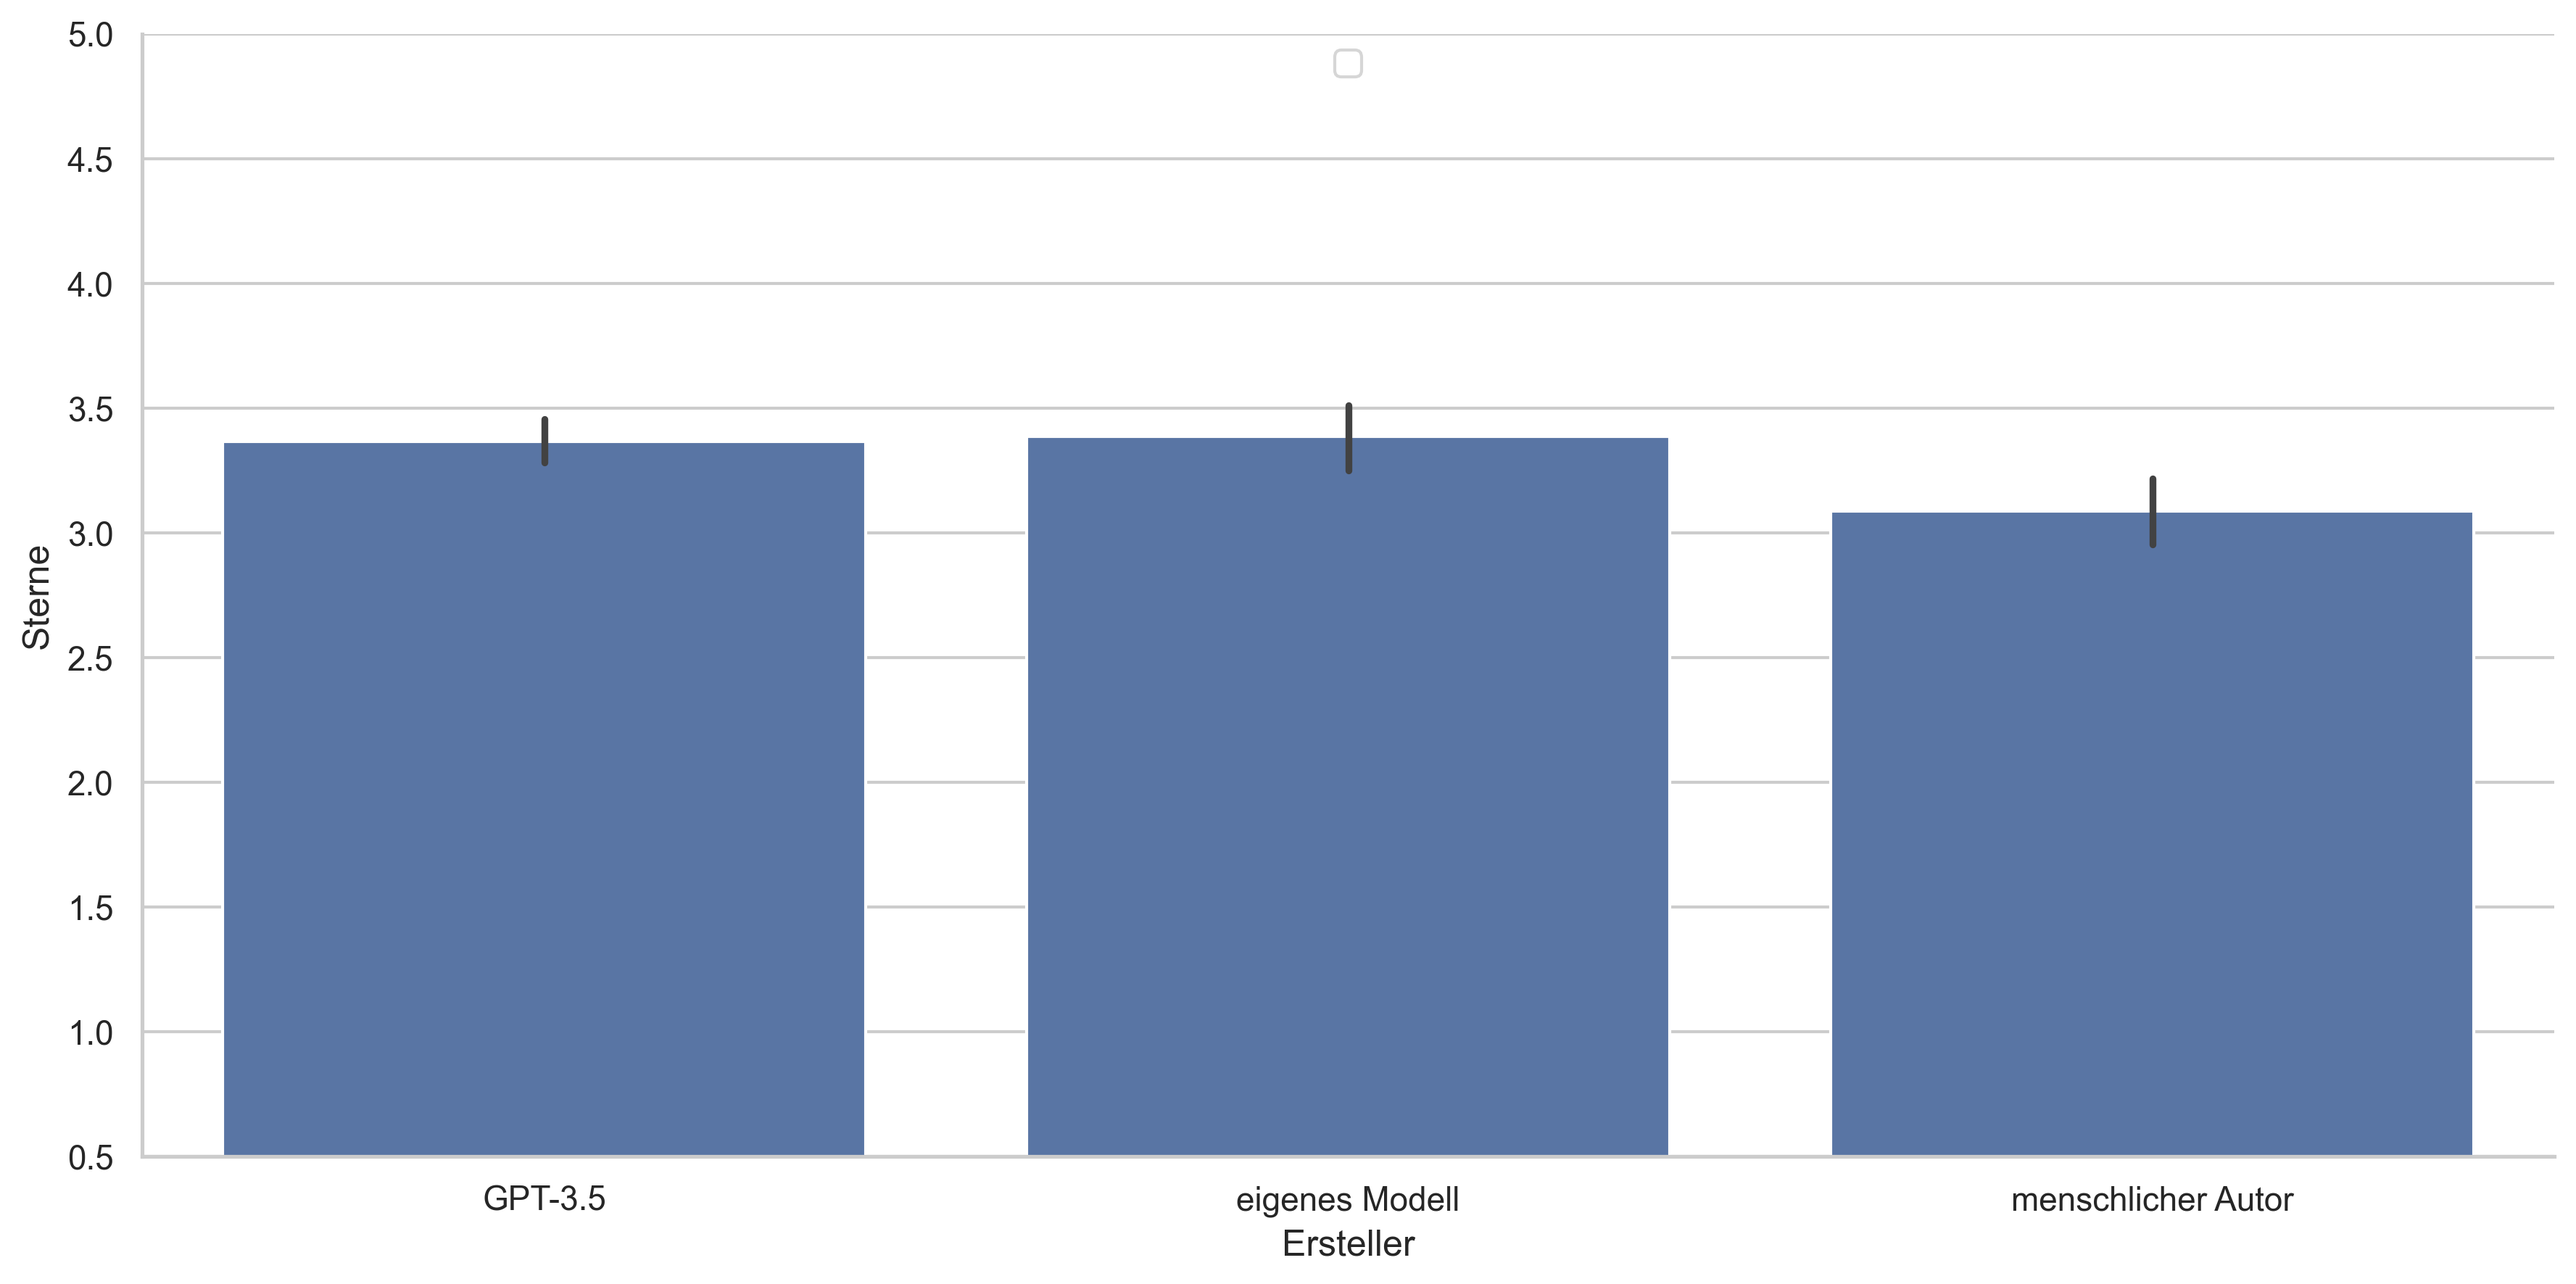
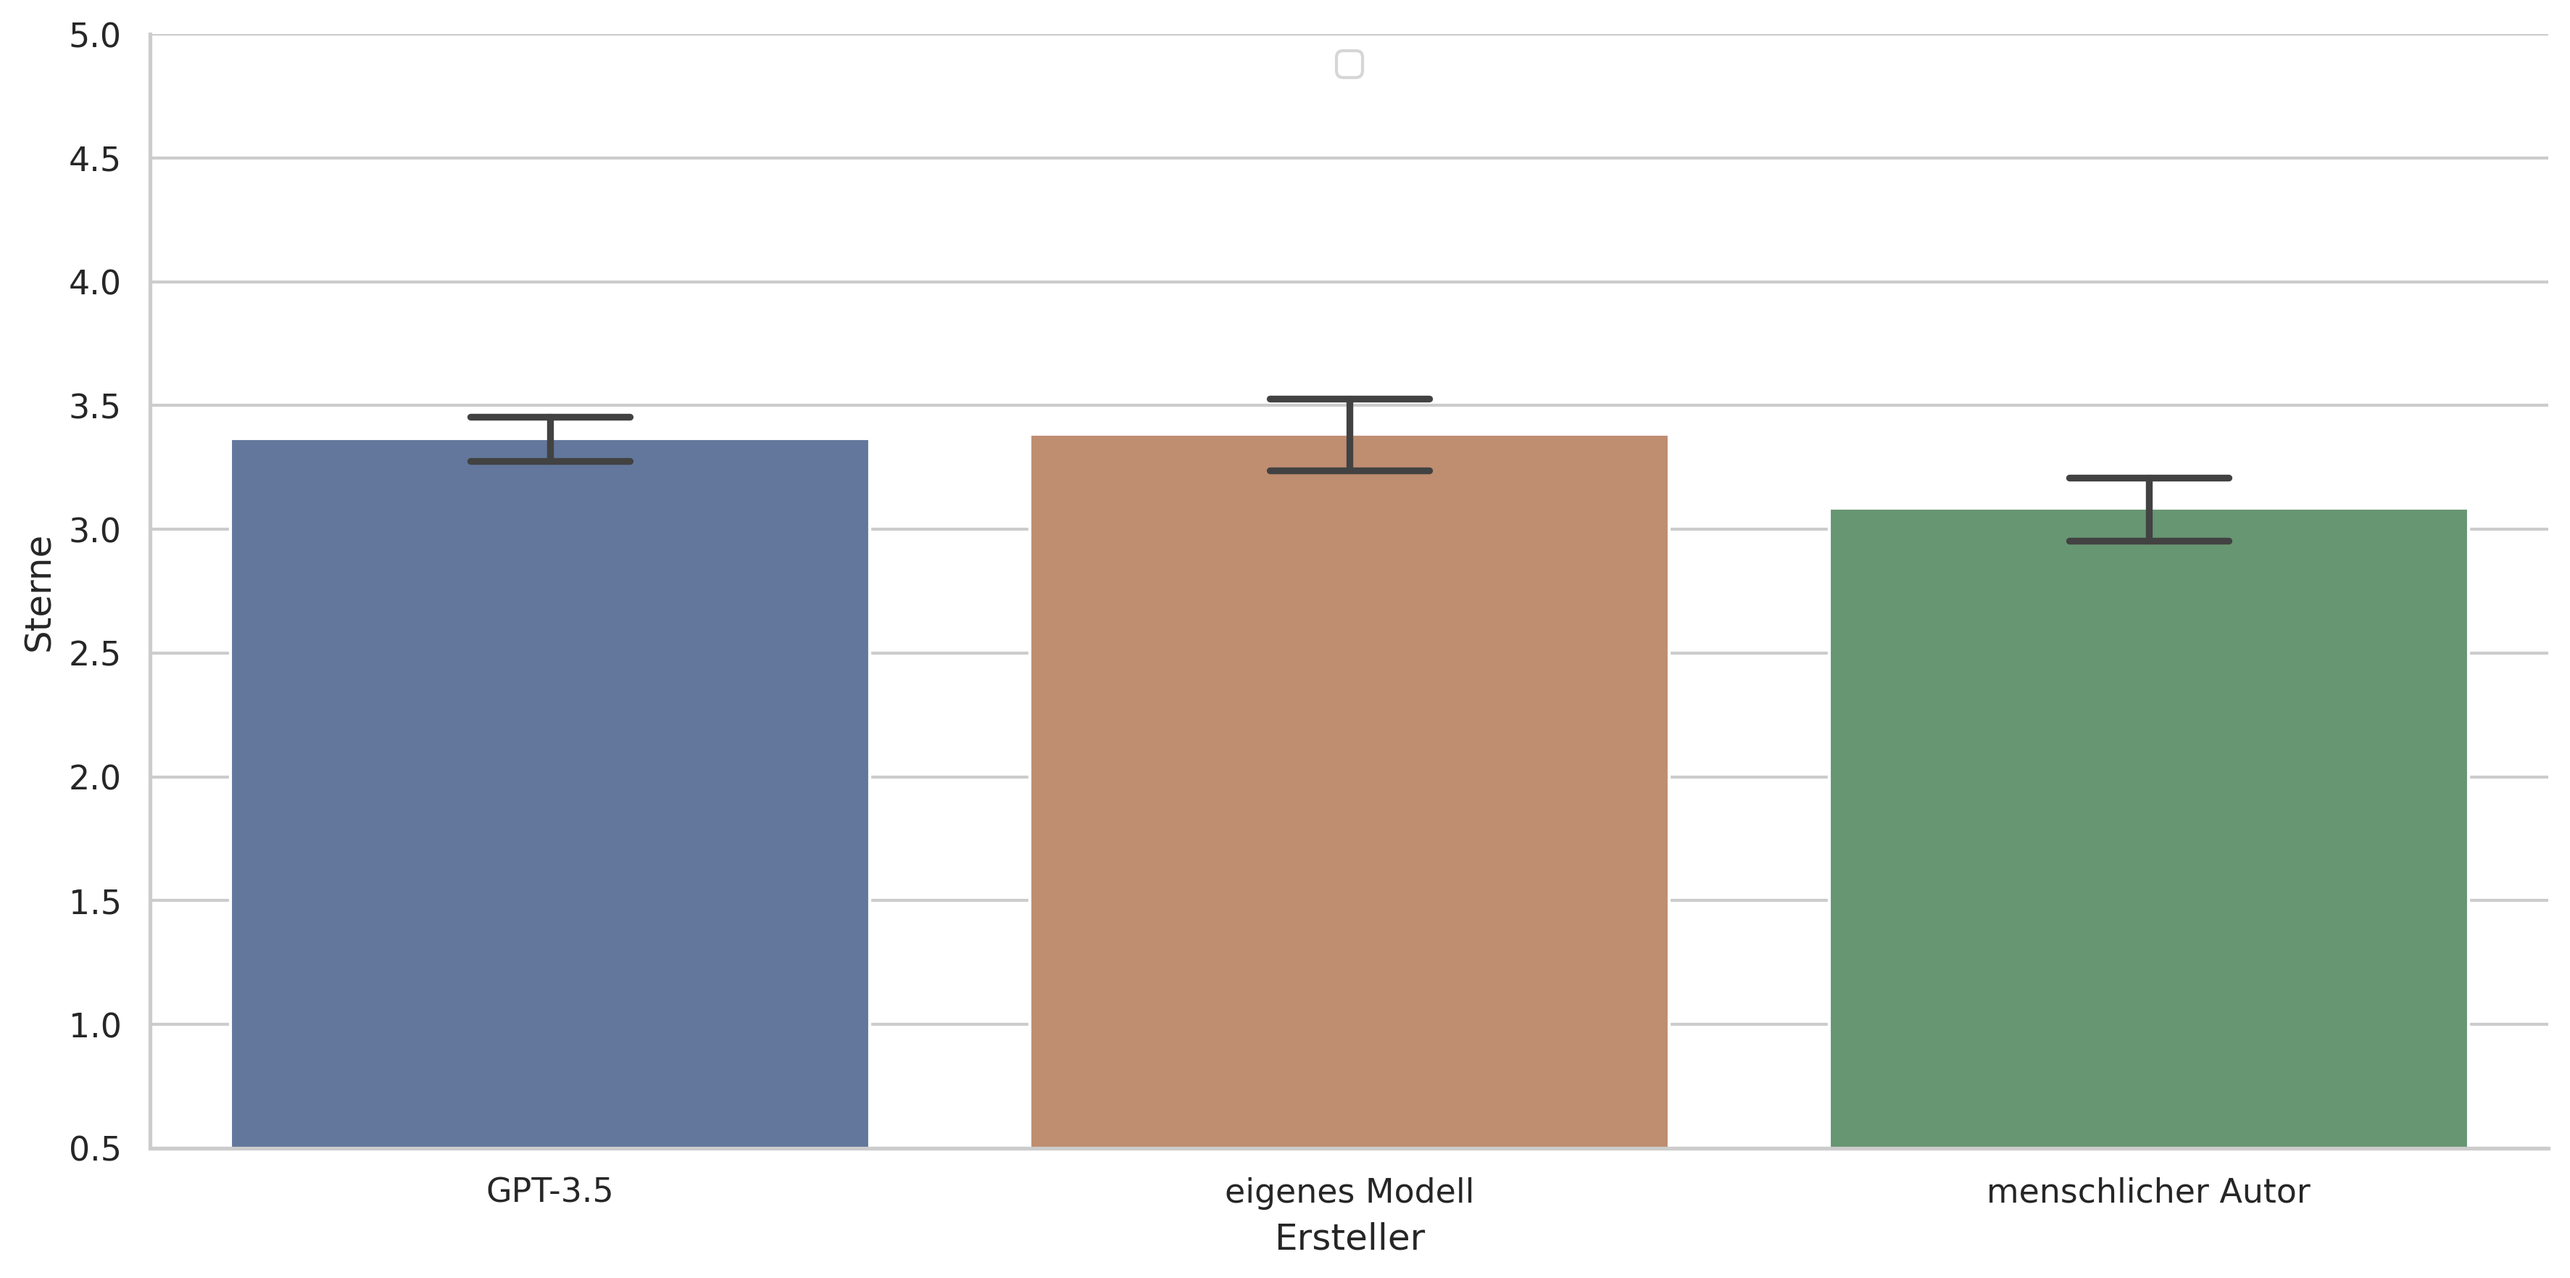
Auswertung und Erstellung der Diagramme

diff --git a/tes4.py b/tes4.py
@@ -1,4 +1,5 @@
 import pandas as pd
+import numpy as np
 
 # lese die Daten ein
 df = pd.read_parquet("output.parquet")
@@ -8,36 +9,46 @@ print(df.describe())
 
 print(df.groupby('Modell').describe())
 
-# Ziehe 100 von jeder Textlänge ab, beim modell 'Mensch', wenn die Textlänge größer als 150 ist
-df.loc[(df['Modell'] == 'mensch') & (df['Textlänge'] > 200), 'Textlänge'] -= 150
-print(df.describe())
-
 df['Modell'] = df['Modell'].replace('mistral', 'eigenes Modell')
 df['Modell'] = df['Modell'].replace('gpt', 'GPT-3.5')
 df['Modell'] = df['Modell'].replace('mensch', 'menschlicher Autor')
 df.rename(columns={'Modell': 'Ersteller'}, inplace=True)
 
+df['Kategorie'] = df['Kategorie'].replace('WORLD', 'International')
+df['Kategorie'] = df['Kategorie'].replace('NATION', 'National')
+df['Kategorie'] = df['Kategorie'].replace('BUSINESS', 'Wirtschaft')
+df['Kategorie'] = df['Kategorie'].replace('TECHNOLOGY', 'Technik')
+df['Kategorie'] = df['Kategorie'].replace('ENTERTAINMENT', 'Unterhaltung')
+df['Kategorie'] = df['Kategorie'].replace('SPORTS', 'Sport')
+df['Kategorie'] = df['Kategorie'].replace('SCIENCE', 'Wissenschaft')
+df['Kategorie'] = df['Kategorie'].replace('HEALTH', 'Gesundheit')
+
+# Sortiere die Ersteller, erst GPT-3.5, dann eigenes Modell, dann menschlicher Autor
+df['Ersteller'] = pd.Categorical(df['Ersteller'], ['GPT-3.5', 'eigenes Modell', 'menschlicher Autor'])
+df = df.sort_values('Ersteller')
+
 # Erstelle Diagramm zur Verteilung der Textlänge in Abhängigkeit von dem Modell und der Kategorie, mit dem Durchschnitt der Textlänge
 import seaborn as sns
 import matplotlib.pyplot as plt
 sns.set(style="whitegrid")
-g = sns.catplot(x="Kategorie", y="Textlänge", hue="Ersteller", data=df, kind="bar", height=6, aspect=2, legend_out=False)
+g = sns.catplot(x="Kategorie", y="Textlänge", hue="Ersteller", data=df, kind="bar", height=6, aspect=2, legend_out=False, capsize=0.2)
 plt.legend(loc='upper center', fancybox=True, shadow=False, ncol=5)
 plt.show()
 g.savefig("textlaenge.png", dpi=300)
 
-g = sns.catplot(x="Kategorie", y="Textlänge", hue="Ersteller", data=df, kind="violin", height=6, aspect=2, legend_out=False)
-g.set(ylim=(0, 1500))
+g = sns.catplot(x="Kategorie", y="Textlänge", hue="Ersteller", data=df, kind="box", height=6, aspect=2, legend_out=False)
+g.set(ylim=(0, 2000))
 plt.legend(loc='upper center', fancybox=True, shadow=False, ncol=5)
 plt.show()
 g.savefig("textlaenge-violin.png", dpi=300)
 
-g = sns.catplot(x="Kategorie", y="Wienersachtextformel", hue="Ersteller", data=df, kind="bar", height=6, aspect=2, legend_out=False)
+g = sns.catplot(x="Kategorie", y="Wienersachtextformel", hue="Ersteller", data=df, kind="bar", height=6, aspect=2, legend_out=False, capsize=0.2)
 plt.legend(loc='upper center', fancybox=True, shadow=False, ncol=5)
+g.set(ylim=(4, 14))
 plt.show()
 g.savefig("wiener.png", dpi=300)
 
-g = sns.catplot(x="Kategorie", y="Flesch-Reading-Ease", hue="Ersteller", data=df, kind="bar", height=6, aspect=2, legend_out=False)
+g = sns.catplot(x="Kategorie", y="Flesch-Reading-Ease", hue="Ersteller", data=df, kind="bar", height=6, aspect=2, legend_out=False, capsize=0.2)
 plt.legend(loc='upper center', fancybox=True, shadow=False, ncol=5)
 plt.show()
 g.savefig("flesch.png", dpi=300)
@@ -45,3 +56,6 @@ g.savefig("flesch.png", dpi=300)
 print(df.groupby(['Kategorie', 'Ersteller'])['Textlänge'].mean())
 print(df.groupby(['Kategorie', 'Ersteller'])['Wienersachtextformel'].mean())
 print(df.groupby(['Kategorie', 'Ersteller'])['Flesch-Reading-Ease'].mean())
+
+# Anzahl der Texte in Abhängigkeit von der Kategorie und dem Modell
+print(df.groupby(['Kategorie', 'Ersteller']).size())

diff --git a/auswerten.py b/auswerten.py
@@ -26,11 +26,14 @@ df['art'] = df['art'].replace('mensch', 'menschlicher Autor')
 df.rename(columns={'kategorie': 'Kategorie'}, inplace=True)
 df.rename(columns={'art': 'Ersteller'}, inplace=True)
 
+# Berechne die Anzahl der Bewertungen in Abhängigkeit von der Kategorie und dem Modell
+print(df.groupby(['Kategorie', 'Ersteller']).size())
+
 # Erstelle Diagramm der Verteilung der Sterne in Abhängigkeit von der Kategorie und dem Modell, sowie der Anzahl der Bewertungen, das Diagramm sollte von 0,5 bis 5 gehen
 import seaborn as sns
 import matplotlib.pyplot as plt
 sns.set(style="whitegrid")
-g = sns.catplot(x="Kategorie", y="Sterne", hue="Ersteller", data=df, kind="bar", height=6, aspect=2, legend_out=False)
+g = sns.catplot(x="Kategorie", y="Sterne", hue="Ersteller", data=df, kind="bar", height=6, aspect=2, legend_out=False, capsize=0.2)
 g.set(ylim=(0.5, 5))
 plt.legend(loc='upper center', fancybox=True, shadow=False, ncol=5)
 plt.show()
@@ -38,14 +41,16 @@ g.savefig("bewertungen.png", dpi=300)
 
 # Options are 'strip', 'swarm', 'box', 'boxen', 'violin', 'bar', 'count', and 'point'.
 # Erstelle Diagramm der Streuung der Sterne in Abhängigkeit von der Kategorie und dem Modell
-g = sns.catplot(x="Kategorie", y="Sterne", hue="Ersteller", data=df, kind="violin", height=6, aspect=2, legend_out=False)
-g.set(ylim=(0.5, 5))
+g = sns.catplot(x="Kategorie", y="Sterne", hue="Ersteller", data=df, kind="box", height=6, aspect=2, legend_out=False, medianprops=dict(color="red", alpha=0.7),)
+g.set(ylim=(0, 5))
 plt.legend(loc='upper center', fancybox=True, shadow=False, ncol=5)
 plt.show()
 g.savefig("bewertungen_streuung.png", dpi=300)
 
+
+my_palette = ["#5975A4", "#cc8963", "#5f9e6e"]
 # Erstelle Diagramm der Verteilung der Sterne in Abhängigkeit von dem Modell, sowie der Anzahl der Bewertungen, das Diagramm sollte von 0,5 bis 5 gehen
-g = sns.catplot(x="Ersteller", y="Sterne", data=df, kind="bar", height=6, aspect=2, legend_out=False)
+g = sns.catplot(x="Ersteller", y="Sterne", data=df, kind="bar", height=6, aspect=2, legend_out=False, capsize=0.2, palette=my_palette)
 g.set(ylim=(0.5, 5))
 plt.legend(loc='upper center', fancybox=True, shadow=False, ncol=5)
 plt.show()
